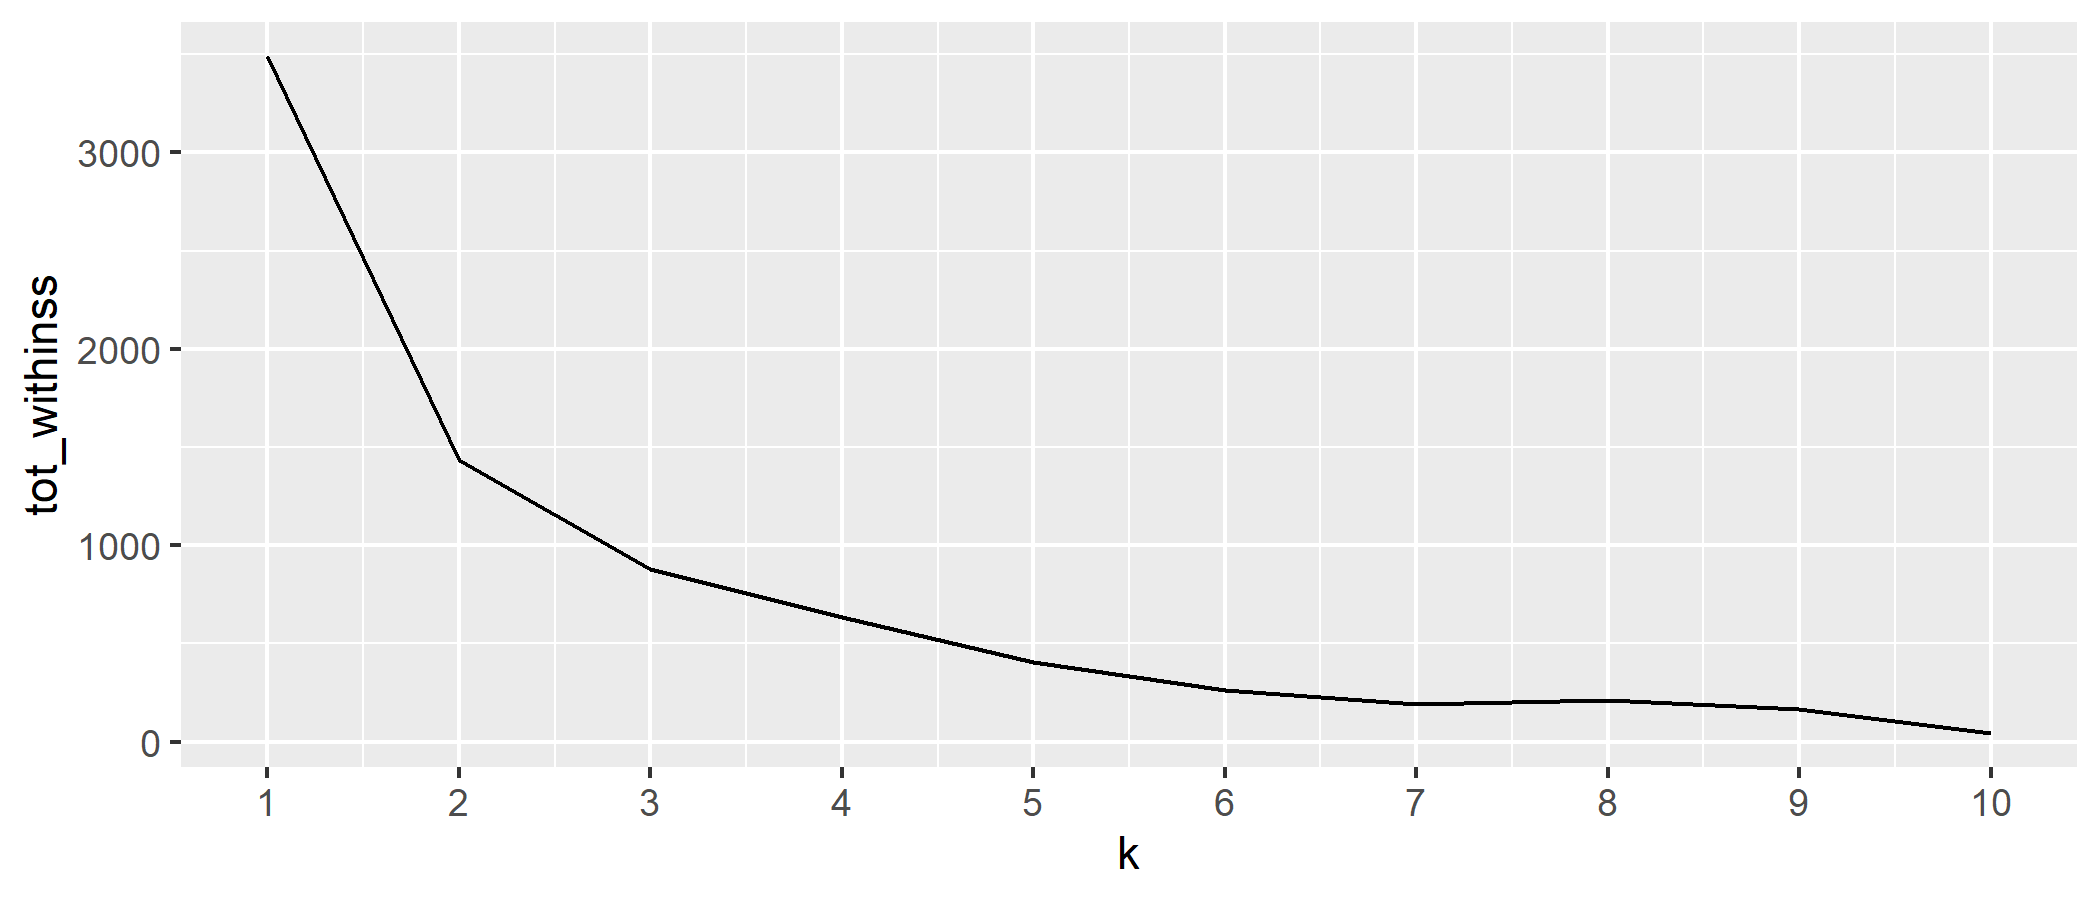
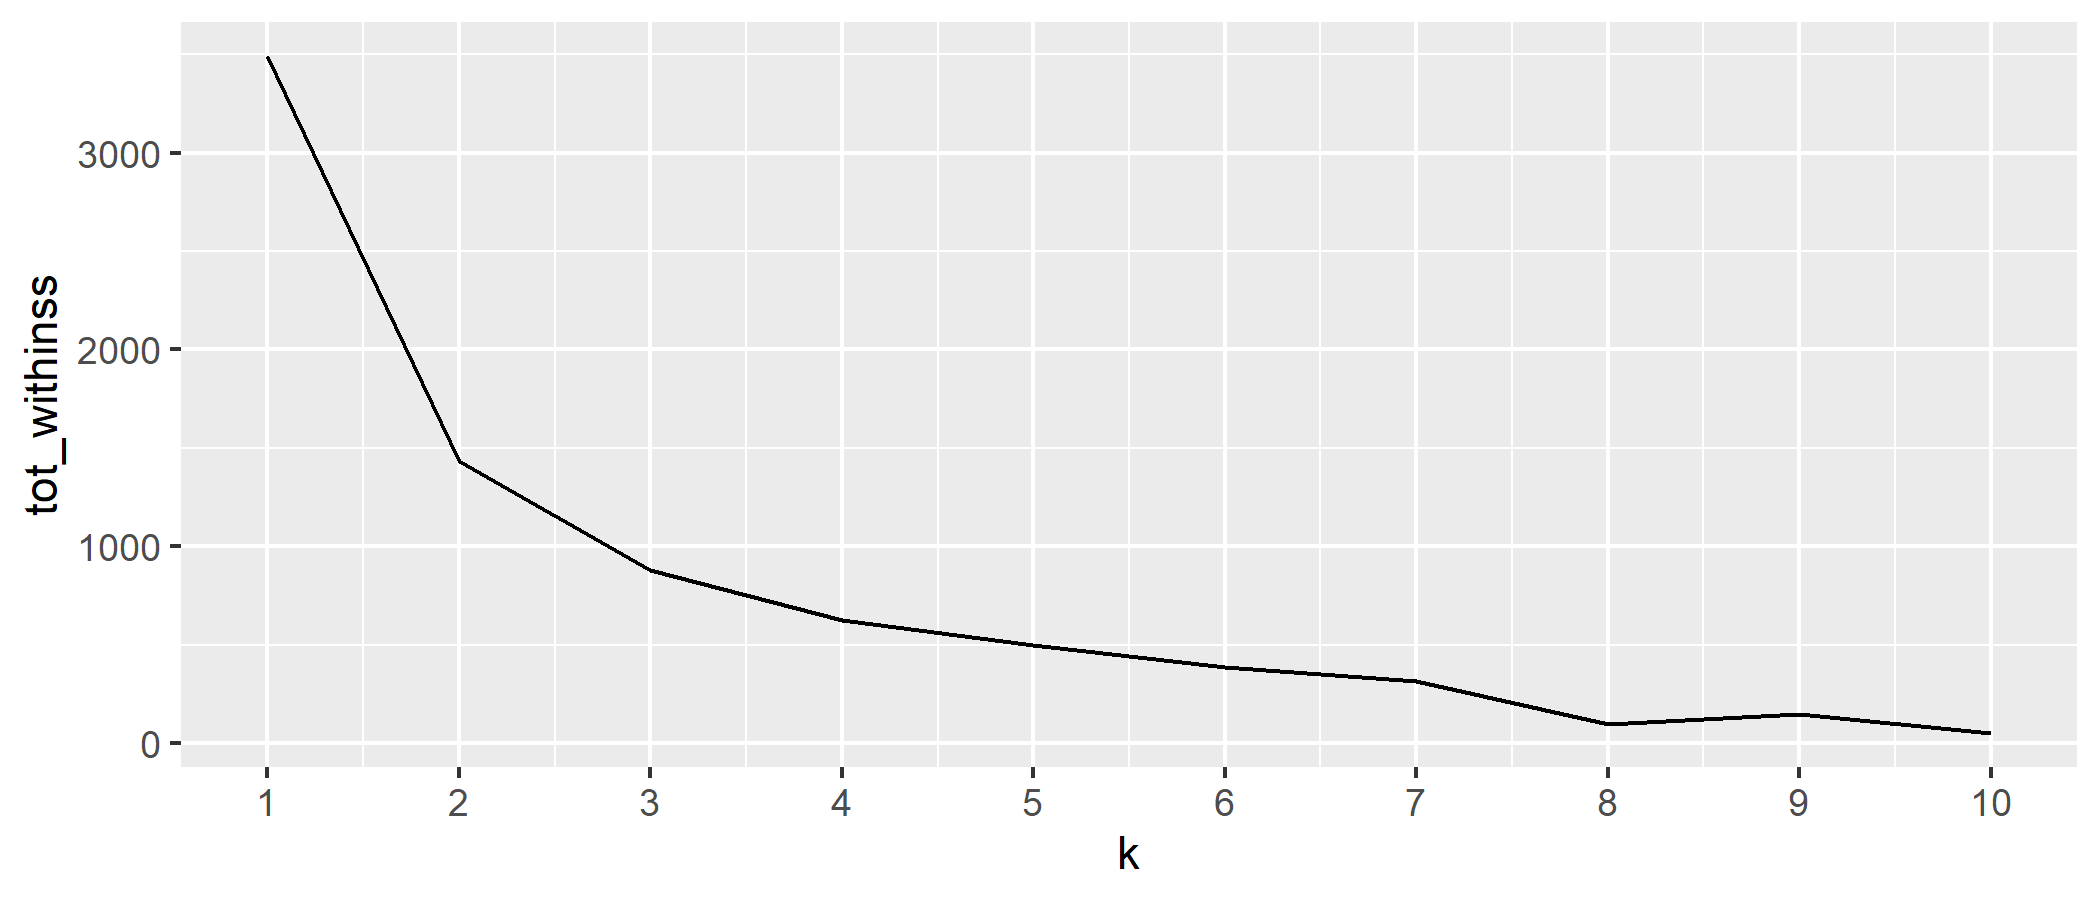
weiter

diff --git a/Predavanja/06_KLASTER.html b/Predavanja/06_KLASTER.html
@@ -1098,13 +1098,13 @@ print(elbow_df)
 ## 1   1    3489.9167
 ## 2   2    1434.5000
 ## 3   3     881.2500
-## 4   4     637.2500
-## 5   5     406.0000
-## 6   6     265.1667
-## 7   7     190.6667
-## 8   8     213.6667
-## 9   9     165.1667
-## 10 10      45.0000
+## 4   4     622.5000
+## 5   5     496.4167
+## 6   6     387.5000
+## 7   7     317.0000
+## 8   8      96.5000
+## 9   9     145.1667
+## 10 10      51.5000
 ```
 
 ---
@@ -1145,7 +1145,6 @@ scale_x_continuous(breaks = 1:10)
 # Silhouette analiza
 
 &lt;br&gt;
-&lt;br&gt;
 ###### Unutarklasterska udaljenost
 &lt;br&gt;
 &lt;img src="../Foto/klastS3.png" width="500px" style="display: block; margin: auto;" /&gt;
@@ -1165,8 +1164,7 @@ scale_x_continuous(breaks = 1:10)
 # Silhouette analiza
 
 &lt;br&gt;
-&lt;br&gt;
-&lt;br&gt;
+###### Udaljenost do susjednog klastera
 &lt;br&gt;
 &lt;img src="../Foto/klastS5.png" width="500px" style="display: block; margin: auto;" /&gt;
 
@@ -1174,7 +1172,6 @@ scale_x_continuous(breaks = 1:10)
 
 # Silhouette analiza
 
-&lt;br&gt;
 &lt;br&gt;
 ###### Udaljenost do susjednog klastera
 &lt;br&gt;
@@ -1184,7 +1181,6 @@ scale_x_continuous(breaks = 1:10)
 
 # Silhouette analiza
 
-&lt;br&gt;
 &lt;br&gt;
 ###### Udaljenost do susjednog klastera
 &lt;br&gt;
